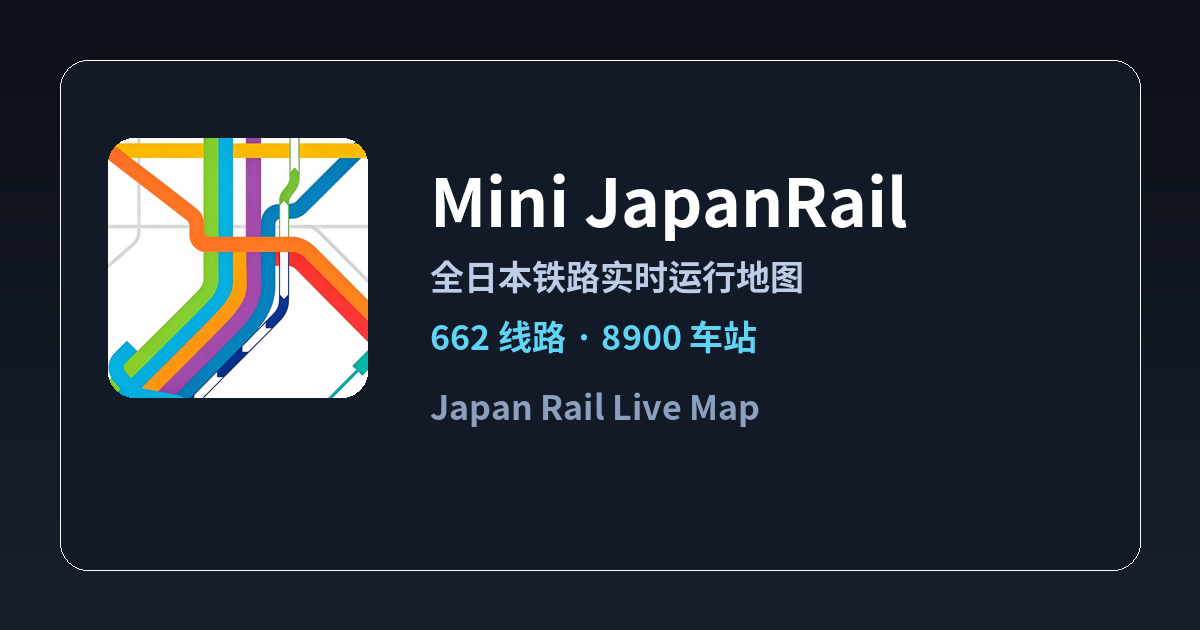
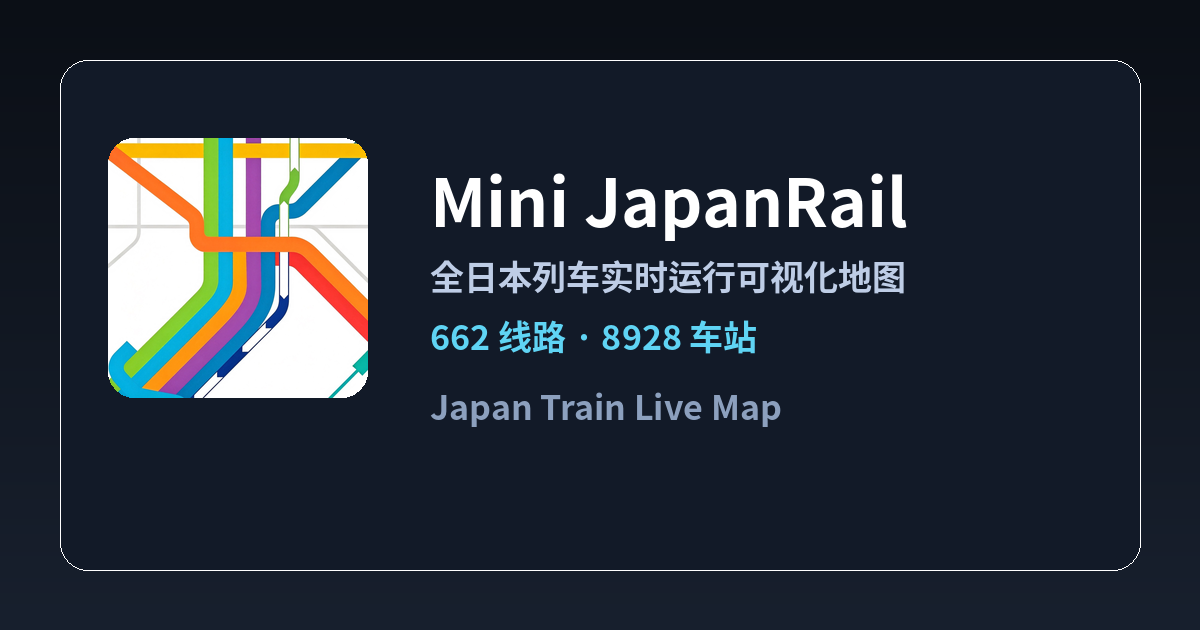
SEO：首页标题与关键词优化，覆盖「列車走行位置・運行情報・列车运行可视化」
原标题「Mini JapanRail — 全日本铁路实时运行地图 | Japan Rail Live Map」只覆盖中文+英文，
缺少日本市场最高价值的官方用词。据竞品与官方用词调研（JR「列車走行位置」、
tetsudou-map.com「走行シミュレーション」、RailAround、trainvisual.top「列车运行可视化系统」、
trainstracking.com「Japan Live Train Map」），重构为：

- title/og/twitter：Mini JapanRail｜全日本列车实时运行可视化地图・列車走行位置・運行情報 | Japan Train Live Map
- description/keywords：补入 新干线・特急・在来线、列车运行情报、リアルタイム列車位置、
  走行シミュレーション、Japan Train Live Map & Real-Time Tracker 等
- JSON-LD：WebSite.alternateName 扩充 10 个中/日/英变体；新增 WebApplication 结构化数据
- noscript 兜底内容（爬虫可抓取）同步关键词化
- SEO 生成器：车站页/线路页/404 描述与「线路一览/车站一览」标题同步；
  og-image 副标题更新并重生成（1200x630）
- UI 品牌副标题（页脚 tagline / 关于面板 / 隐私页）中/日/英三语对齐

验证：node --check 通过；2 个 JSON-LD 块合法；实跑生成器 662 线路页 + 8928 车站页 +
2 一览页全部产出且标题/描述正确；浏览器加载无报错（除沙箱固有 WebGL 限制）。

diff --git a/mini-japanrail-3d/index.html b/mini-japanrail-3d/index.html
@@ -3,28 +3,32 @@
 <head>
 <meta charset="utf-8">
 <meta name="viewport" content="width=device-width, initial-scale=1, maximum-scale=1, user-scalable=no">
-<title>Mini JapanRail — 全日本铁路实时运行地图 | Japan Rail Live Map</title>
-<meta name="description" content="本地时刻表驱动的全日本铁路 3D 实时运行地图：覆盖 600+ 条线路与 8,900+ 个车站，Globe 投影、时钟回放、路线搜索，运行时零数据请求。日本鉄道ライブマップ / Japan Rail Live Map。">
+<title>Mini JapanRail｜全日本列车实时运行可视化地图・列車走行位置・運行情報 | Japan Train Live Map</title>
+<meta name="description" content="全日本列车实时运行可视化地图：本地时刻表驱动，实时显示新干线・特急・在来线的列车走行位置与运行情报，覆盖 600+ 条线路、8,900+ 个车站，支持 3D 地球投影、时钟回放与路线搜索，运行时零数据请求。日本全国の列車走行位置・運行情報がわかるリアルタイム鉄道マップ（走行シミュレーション） / Japan Train Live Map &amp; Real-Time Tracker.">
+<meta name="keywords" content="日本铁路,全日本铁路,列车实时位置,列车运行可视化,列车运行可视化系统,列车运行图,列车运行情报,列車走行位置,列車運行情報,鉄道マップ,路線図,新幹線 位置,リアルタイム列車位置,走行シミュレーション,Japan train live map,train tracker,shinkansen live map">
 <!-- ============ SEO（纯静态：真实 HTML + JSON-LD + OG，不影响页面任何功能） ============
      线上域名：https://jr.suki.ing（如需变更，请同步替换此处与 seo/seo_config.json 的 site_base）。 -->
 <link rel="canonical" href="https://jr.suki.ing/index.html">
 <meta property="og:type" content="website">
 <meta property="og:site_name" content="Mini JapanRail">
-<meta property="og:title" content="Mini JapanRail — 全日本铁路实时运行地图 | Japan Rail Live Map">
-<meta property="og:description" content="全日本铁路 3D 实时运行地图：600+ 条线路、8,900+ 个车站，Globe 投影、时钟回放、路线搜索。日本鉄道ライブマップ / Japan Rail Live Map。">
+<meta property="og:title" content="Mini JapanRail｜全日本列车实时运行可视化地图・列車走行位置・運行情報 | Japan Train Live Map">
+<meta property="og:description" content="全日本列车实时运行可视化地图：实时显示新干线・特急・在来线的列车走行位置与运行情报，覆盖 600+ 线路、8,900+ 车站，支持 3D 地球投影、时钟回放、路线搜索。日本全国の列車走行位置・運行情報 / Japan Train Live Map。">
 <meta property="og:url" content="https://jr.suki.ing/">
 <meta property="og:image" content="https://jr.suki.ing/og-image.png">
 <meta property="og:locale" content="zh_CN">
 <meta property="og:locale:alternate" content="ja_JP">
 <meta property="og:locale:alternate" content="en_US">
 <meta name="twitter:card" content="summary_large_image">
-<meta name="twitter:title" content="Mini JapanRail — 全日本铁路实时运行地图 | Japan Rail Live Map">
-<meta name="twitter:description" content="全日本铁路 3D 实时运行地图：600+ 条线路、8,900+ 个车站。">
+<meta name="twitter:title" content="Mini JapanRail｜全日本列车实时运行可视化地图・列車走行位置・運行情報 | Japan Train Live Map">
+<meta name="twitter:description" content="全日本列车实时运行可视化地图：新干线・特急・在来线的列车走行位置与运行情报，600+ 线路、8,900+ 车站，3D 地球投影与时钟回放。">
 <meta name="twitter:image" content="https://jr.suki.ing/og-image.png">
 <meta name="theme-color" content="#0b0f16">
 <link rel="preconnect" href="https://cdn.jsdelivr.net" crossorigin>
 <script type="application/ld+json">
-{"@context":"https://schema.org","@type":"WebSite","name":"Mini JapanRail","alternateName":["全日本铁路实时运行地图","日本鉄道ライブマップ","Japan Rail Live Map"],"url":"https://jr.suki.ing/","description":"全日本铁路 3D 实时运行地图：600+ 条线路、8,900+ 个车站，实时列车、时刻表回放、路线搜索。","inLanguage":["zh-Hans","ja","en"]}
+{"@context":"https://schema.org","@type":"WebSite","name":"Mini JapanRail","alternateName":["全日本列车实时运行可视化地图","全日本铁路实时运行地图","列车运行可视化系统","列车运行情报","列車走行位置","列車運行情報","日本全国鉄道リアルタイムマップ","Japan Train Live Map","Japan Rail Live Map","Real-Time Japan Train Tracker"],"url":"https://jr.suki.ing/","description":"全日本列车实时运行可视化地图：本地时刻表驱动，实时显示新干线・特急・在来线的列车走行位置与运行情报，覆盖 600+ 条线路、8,900+ 个车站。","keywords":"列车实时位置,列车运行可视化,列車走行位置,運行情報,新幹線,鉄道マップ,Japan train live map","inLanguage":["zh-Hans","ja","en"]}
+</script>
+<script type="application/ld+json">
+{"@context":"https://schema.org","@type":"WebApplication","name":"Mini JapanRail","url":"https://jr.suki.ing/","applicationCategory":"TravelApplication","operatingSystem":"Web","browserRequirements":"Requires WebGL","isAccessibleForFree":true,"offers":{"@type":"Offer","price":"0","priceCurrency":"JPY"},"description":"全日本列车实时运行可视化地图：实时列车走行位置与运行情报、时钟回放、路线搜索、线路类型过滤。","featureList":["全日本列车实时位置","列车运行可视化","新干线・特急・在来线分层显示","时钟回放","路线搜索","线路类型过滤","运行日切换"],"inLanguage":["zh-Hans","ja","en"]}
 </script>
 <link rel="icon" type="image/png" sizes="64x64" href="favicon.png" id="fav64">
 <link rel="icon" type="image/png" sizes="192x192" href="icon-192.png">
@@ -867,8 +871,8 @@ html.perf-low *, html.perf-low *::before, html.perf-low *::after {
 <body>
 <noscript>
   <div style="position:fixed;inset:auto 0 0 0;z-index:99999;background:#0b0f16;color:#e8edf4;padding:14px;font-family:-apple-system,'PingFang SC','Hiragino Sans GB','Noto Sans CJK SC','Yu Gothic UI','Noto Sans JP',sans-serif;font-size:14px;line-height:1.8;max-height:70vh;overflow:auto">
-    <h1 style="font-size:18px;margin-bottom:6px">Mini JapanRail — 全日本铁路实时运行地图</h1>
-    <p>本站为纯静态网站：覆盖全日本 600+ 条铁路线路与 8,900+ 个车站的实时运行地图（日本鉄道ライブマップ / Japan Rail Live Map）。请在浏览器中启用 JavaScript 以使用 3D 地图、实时列车与路线搜索；无需脚本即可直接浏览以下静态页面：</p>
+    <h1 style="font-size:18px;margin-bottom:6px">Mini JapanRail｜全日本列车实时运行可视化地图（列車走行位置・運行情報）</h1>
+    <p>本站为纯静态网站：全日本列车实时运行可视化地图，实时显示新干线・特急・在来线等 600+ 条铁路线路、8,900+ 个车站的列车走行位置与运行情报（列車走行位置・運行情報 / Japan Train Live Map）。请在浏览器中启用 JavaScript 以使用 3D 地图、实时列车与路线搜索；无需脚本即可直接浏览以下静态页面：</p>
     <p style="margin:6px 0"><a href="lines/">全部线路一览（600+ 条）</a> ｜ <a href="stations/">全部车站一览（8,900+ 个）</a></p>
     <p style="color:#8fa0c0;margin-top:8px;font-size:13px">热门线路：<a href="lines/%E5%B1%B1%E6%89%8B%E7%B7%9A/">山手線（Yamanote Line）</a> ·
       <a href="lines/%E6%9D%B1%E6%B5%B7%E9%81%93%E6%9C%AC%E7%B7%9A/">東海道本線</a> ·
@@ -1085,7 +1089,7 @@ window.addEventListener('unhandledrejection', e => { __pushErr('REJ ' + (e.reaso
 
 <script type="module">
 /* ================================================================== *
- *  Mini JapanRail — 全日本铁路实时运行地图(单文件版)
+ *  Mini JapanRail｜全日本列车实时运行可视化地图(单文件版)
  *  数据:本地时刻表(trains_*.json + tmaps.json)+ 轨道几何(segments3d/stations3d)
  *  渲染:MapLibre GL JS v6(Globe 投影)+ projectTile 注入自定义 WebGL 列车层
  *  时钟:JST 每帧推算全部在途列车位置,运行时零数据请求
@@ -1230,11 +1234,11 @@ const HOLIDAYS = (() => {
 /* ---------------- i18n ---------------- */
 const I18N = {
   zh: {
-    title:'Mini JapanRail', sub:'全日本铁路实时运行地图', loading:'准备中…', live:'实时', follow:'跟随中', followStop:'取消跟随',
+    title:'Mini JapanRail', sub:'全日本列车实时运行可视化地图', loading:'准备中…', live:'实时', follow:'跟随中', followStop:'取消跟随',
     searchT:'搜索', searchPh:'车站 / 线路(日·中·EN)…', routeT:'路线搜索', routeFrom:'起点站', routeTo:'终点站',
     tabRoute:'路线', aSearchPh:'搜索车站 / 线路…', badgeLive:'在途', badgeToday:'今日', noMatch:'无匹配结果',
     filterT:'线路类型', legendT:'图例', dayT:'运行日', dayAuto:'自动', setT:'设置', dataT:'数据', helpT:'帮助', aboutT:'关于',
-    about1:'Mini JapanRail — 本地时刻表驱动的全日本铁路 3D 实时运行地图', about2:'数据源:日本全国铁路计划时刻表,每周自动刷新;页面运行时零外部请求', about3:'本站为个人爱好项目,数据仅供学习参考', about4:'隐私政策',
+    about1:'Mini JapanRail — 本地时刻表驱动的全日本列车实时运行可视化地图（列車走行位置・運行情報）', about2:'数据源:日本全国铁路计划时刻表,每周自动刷新;页面运行时零外部请求', about3:'本站为个人爱好项目,数据仅供学习参考', about4:'隐私政策',
     sw1:'车站标签', sw2:'轨道光晕', sw3:'车站点', sw4:'底图瓦片', sw5:'列车光晕', sw6:'复制异常车辆', sw7:'列车悬浮提示', sw8:'车站轮廓', sw9:'出入口', sw10:'详细股道',
     sw11:'性能改善', sw11Note:'低倍率下只渲染新干线・特急，放大后逐级加入快速・普通列车（含地铁・路面电车）；等级切换与进出视野均为淡入淡出，避免列车突然出现或消失',
     modeT:'列车显示', mode3d:'3D', modeIcon:'图标', modeCute:'可爱',
@@ -1288,7 +1292,7 @@ const I18N = {
     gdOperator:'事業者サイト', gdDataSrc:'データ：ecomo-rakuraku（交通エコロジー・モビリティ財団）',
   },
   en: {
-    title:'Mini JapanRail', sub:'Japan Rail Live Map', loading:'Preparing…', live:'Live', follow:'Following', followStop:'Stop follow',
+    title:'Mini JapanRail', sub:'Japan Train Live Map', loading:'Preparing…', live:'Live', follow:'Following', followStop:'Stop follow',
     searchT:'Search', searchPh:'Station / Line (JA·ZH·EN)…', routeT:'Route search', routeFrom:'From', routeTo:'To',
     tabRoute:'Route', aSearchPh:'Search station / line…', badgeLive:'Live', badgeToday:'Today', noMatch:'No matches',
     filterT:'Line types', legendT:'Legend', dayT:'Service day', dayAuto:'Auto', setT:'Settings', dataT:'Data', helpT:'Help', aboutT:'About',

diff --git a/mini-japanrail-3d/privacy.html b/mini-japanrail-3d/privacy.html
@@ -4,7 +4,7 @@
 <meta charset="utf-8">
 <meta name="viewport" content="width=device-width, initial-scale=1, maximum-scale=1, user-scalable=no">
 <title>隐私政策 — Mini JapanRail</title>
-<meta name="description" content="Mini JapanRail 隐私政策:本地时刻表驱动的全日本铁路 3D 实时运行地图,数据与隐私说明。">
+<meta name="description" content="Mini JapanRail 隐私政策:本地时刻表驱动的全日本列车实时运行可视化地图（列車走行位置・運行情報）,数据与隐私说明。">
 <link rel="icon" type="image/png" sizes="64x64" href="favicon.png">
 <link rel="icon" type="image/png" sizes="192x192" href="icon-192.png">
 <link rel="apple-touch-icon" sizes="180x180" href="apple-touch-icon.png">
@@ -129,7 +129,7 @@ a.link:hover { color:var(--acc); border-bottom-style:solid; }
   <div class="glass-card">
     <div class="g-card-inner">
       <h1 class="h1" id="docH">隐私政策</h1>
-      <p class="h-sub" id="docSub">Mini JapanRail — 全日本铁路实时运行地图</p>
+      <p class="h-sub" id="docSub">Mini JapanRail — 全日本列车实时运行可视化地图</p>
 
       <div class="sec-t" id="s1">我们收集什么</div>
       <p class="para" id="p1">本站不收集、不存储、不上传任何个人信息。您在使用过程中产生的偏好设置（语言、主题、显示开关、跟随状态等）仅保存在您自己的浏览器本地存储（localStorage）中，用于下次访问时恢复界面状态，不会发送到任何服务器。</p>
@@ -169,7 +169,7 @@ applyTheme();
 const lang = (localStorage.getItem('mjr3d_lang') || 'zh');
 document.documentElement.lang = lang === 'zh' ? 'zh-Hans' : lang;
 const I18N = {
-  zh: { backLb:'返回地图', docT:'隐私政策', docH:'隐私政策', docSub:'Mini JapanRail — 全日本铁路实时运行地图',
+  zh: { backLb:'返回地图', docT:'隐私政策', docH:'隐私政策', docSub:'Mini JapanRail — 全日本列车实时运行可视化地图',
     s1:'我们收集什么', p1:'本站不收集、不存储、不上传任何个人信息。您在使用过程中产生的偏好设置（语言、主题、显示开关、跟随状态等）仅保存在您自己的浏览器本地存储（localStorage）中，用于下次访问时恢复界面状态，不会发送到任何服务器。',
     s2:'数据来源', p2:'列车运行数据基于日本全国铁路的计划时刻表构建：由每周定时任务从公开时刻表源抓取，打包为紧凑的静态数据文件随站点发布。页面运行时使用这些本地数据驱动渲染，不依赖实时外部请求。', p2b:'计划时刻表',
     s3:'第三方服务', l1:'地图渲染使用开源库 MapLibre GL JS（通过公共 CDN 加载，您的浏览器会向该 CDN 发起请求）。',
@@ -187,7 +187,7 @@ const I18N = {
     s4:'キャッシュについて', p4:'再訪を高速化するため、一部の静的データはブラウザキャッシュ（IndexedDB / HTTPキャッシュ含む）に保存される場合があります。これらはお使いの端末にのみ存在し、ブラウザ設定からいつでも削除できます。',
     s5:'お問い合わせ', p5:'本ポリシーについてご質問がある場合は、GitHubリポジトリのIssueにてご連絡ください。',
     footT:'© 2026 ミニ日本鉄道', footS:'· ローカル時刻表駆動 · 実行時は外部データリクエストなし' },
-  en: { backLb:'Back to map', docT:'Privacy Policy', docH:'Privacy Policy', docSub:'Mini JapanRail — Japan Rail Live Map',
+  en: { backLb:'Back to map', docT:'Privacy Policy', docH:'Privacy Policy', docSub:'Mini JapanRail — Japan Train Live Map',
     s1:'What we collect', p1:'This site does not collect, store, or upload any personal information. Preference settings (language, theme, display toggles, follow state, etc.) are saved only in your browser\'s localStorage to restore the interface on your next visit; nothing is sent to any server.',
     s2:'Data source', p2:'Train operations are driven by scheduled timetables for all Japan railways: a weekly task fetches public timetable sources and packages them into compact static data files shipped with the site. Rendering at runtime uses only this local data and makes no live external requests.', p2b:'Scheduled timetables',
     s3:'Third-party services', l1:'Map rendering uses the open-source MapLibre GL JS library (loaded from a public CDN, so your browser requests it from that CDN).',

diff --git a/mini-japanrail-3d/seo/build_seo_static.py b/mini-japanrail-3d/seo/build_seo_static.py
@@ -1038,7 +1038,7 @@ def station_page(rec, lines, neighbors, cfg, tozh):
     if rec['pref']:
         desc_tail = '位于%s。' % (pref_zh or rec['pref'])
     line_desc = '、'.join(line_names[:3]) + (' 等' if len(line_names) > 3 else '') if line_names else '多条线路'
-    desc = '%s（%s / %s）%s途经%s。在 Mini JapanRail 全日本铁路实时运行地图上查看车站位置、途经线路与实时列车。' % (
+    desc = '%s（%s / %s）%s途经%s。在 Mini JapanRail 全日本列车实时运行可视化地图上查看车站位置、途经线路与列车走行位置・運行情報。' % (
         zh, name, en or zh, desc_tail, line_desc)
     if len(desc) > 190:
         desc = desc[:187] + '…'
@@ -1262,7 +1262,7 @@ def line_page(rec, stations, cfg, tozh, ordered=None):
         desc += '，全长约 %d 公里' % rec['approx_km']
     if rec.get('prefs'):
         desc += '，途经 %d 个都道府县' % len(rec['prefs'])
-    desc += '。可在 Mini JapanRail 全日本铁路实时运行地图上查看线路走向与实时列车。'
+    desc += '。可在 Mini JapanRail 全日本列车实时运行可视化地图上查看线路走向、列车走行位置与運行情報。'
     if len(desc) > 190:
         desc = desc[:187] + '…'
     items_html = ''
@@ -1484,8 +1484,8 @@ def line_page(rec, stations, cfg, tozh, ordered=None):
 def index_lines_page(lines, stations, cfg, tozh, line_counts=None):
     url = abs_url(cfg, 'lines/')
     og_img_url = abs_url(cfg, cfg['og_image'])
-    title = '全部铁路线路一览 | %s' % cfg['site_name']
-    desc = 'Mini JapanRail 收录的全日本铁路线路一览（%d 条）：JR、私铁、地下铁、单轨、路面电车等，每条线路均有独立页面与途经车站。' % len(lines)
+    title = '全日本铁路线路一览（新干线・JR・私铁・地下铁・路面电车）| %s' % cfg['site_name']
+    desc = 'Mini JapanRail 收录的全日本铁路线路一览（%d 条）：新干线、JR、私铁、地下铁、单轨、路面电车等，每条线路均有独立页面、途经车站与列车走行位置（列車走行位置・運行情報）。' % len(lines)
     kinds_order = ['鉄道', '路面電車', 'モノレール', '案内軌条式', '鋼索鉄道', '無軌条電車', '浮上式']
     groups = defaultdict(list)
     for lname, rec in sorted(lines.items(), key=lambda kv: kv[0]):
@@ -1525,8 +1525,8 @@ def index_lines_page(lines, stations, cfg, tozh, line_counts=None):
 def index_stations_page(stations, cfg, tozh, lines=None):
     url = abs_url(cfg, 'stations/')
     og_img_url = abs_url(cfg, cfg['og_image'])
-    title = '全部车站一览 | %s' % cfg['site_name']
-    desc = 'Mini JapanRail 收录的全日本车站一览（%d 站，按都道府县分组），每个车站均有独立页面，包含途经线路、位置与相邻车站。' % len(stations)
+    title = '全日本车站一览（新干线・JR・私铁・地下铁）| %s' % cfg['site_name']
+    desc = 'Mini JapanRail 收录的全日本车站一览（%d 站，按都道府县分组），每个车站均有独立页面，包含途经线路、位置、相邻车站与列车走行位置。' % len(stations)
     groups = defaultdict(list)
     for key, rec in stations.items():
         groups[rec['pref'] or 'その他'].append(rec)
@@ -1611,7 +1611,7 @@ def write_robots(cfg):
 def write_404(cfg):
     og_img_url = abs_url(cfg, cfg['og_image'])
     title = '页面不存在（404）| %s' % cfg['site_name']
-    desc = '您访问的页面不存在。返回 Mini JapanRail 全日本铁路实时运行地图，或浏览全部线路 / 全部车站。'
+    desc = '您访问的页面不存在。返回 Mini JapanRail 全日本列车实时运行可视化地图，或浏览全部线路 / 全部车站。'
     body = (
         '<div class="wrap" style="text-align:center;padding-top:80px">\n'
         '<h1>404 — 页面不存在</h1>\n'
@@ -1682,9 +1682,9 @@ def gen_og_image(cfg, station_count, line_count):
     if f_title:
         d.text((tx, 150), 'Mini JapanRail', font=f_title, fill=(255, 255, 255))
     if f_sub:
-        d.text((tx, 250), '全日本铁路实时运行地图', font=f_sub, fill=(190, 205, 230))
+        d.text((tx, 250), '全日本列车实时运行可视化地图', font=f_sub, fill=(190, 205, 230))
         d.text((tx, 310), '%d 线路 · %d 车站' % (line_count, station_count), font=f_sub, fill=(95, 212, 244))
-        d.text((tx, 380), 'Japan Rail Live Map', font=f_sub, fill=(140, 160, 190))
+        d.text((tx, 380), 'Japan Train Live Map', font=f_sub, fill=(140, 160, 190))
     img.save(out, 'PNG', optimize=True)
     print('[og-image] 已生成 %s（%dx%d）' % (out, W, H))
     return True

diff --git a/mini-japanrail-3d/seo/README.md b/mini-japanrail-3d/seo/README.md
@@ -73,13 +73,29 @@ CI（`.github/workflows/deploy.yml`）已在每次部署前自动运行生成器
 
 | 页面 | 格式 |
 | --- | --- |
-| 首页 | `Mini JapanRail — 全日本铁路实时运行地图 \| Japan Rail Live Map` |
+| 首页 | `Mini JapanRail｜全日本列车实时运行可视化地图・列車走行位置・運行情報 \| Japan Train Live Map` |
 | 线路页 | `山手線（山手线 / Yamanote Line）— 线路车站一览 \| Mini JapanRail` |
 | 车站页 | `東京（东京站 / Tōkyō）— 途经上越新幹線、上越線 等 \| Mini JapanRail` |
+| 线路一览 | `全日本铁路线路一览（新干线・JR・私铁・地下铁・路面电车）\| Mini JapanRail` |
+| 车站一览 | `全日本车站一览（新干线・JR・私铁・地下铁）\| Mini JapanRail` |
 | 同名站 | 自动带消歧后缀，如 `高田(奈良県)（高田站 / Kōda）…` |
 
 要点：日文名优先（利于 Yahoo! Japan / Naver），紧跟中文与英文名（利于百度 / Google），
 再放线路上下文与品牌名；控制在 70 字左右。
+
+**首页关键词策略**（对齐主要竞品与官方用词）：
+
+| 语言 | 关键词 | 说明 |
+| --- | --- | --- |
+| 日 | 列車走行位置 | JR 官方用词，本站最大的搜索流量入口 |
+| 日 | 運行情報 / リアルタイム列車位置 / 走行シミュレーション | 与 `tetsudou-map.com`、`RailAround` 同赛道 |
+| 中 | 全日本列车实时运行可视化地图 / 列车运行可视化系统 / 列车运行情报 | 对标 `trainvisual.top`、`高铁通` 等 |
+| 英 | Japan Train Live Map / Real-Time Train Tracker | 对标 `trainstracking.com`、`liverailmap.com` |
+
+标题把中 / 日 / 英三语的最高价值词按「品牌 ｜ 中文主词 ・ 日文主词 ｜ 英文主词」排布，
+Google 显示宽度约 600px，超出部分会在 SERP 截断但**仍参与索引**；因此把
+`列車走行位置` 等最高价值词前置。`運行情報`、`列车运行可视化`、`新幹線` 等
+其余词放在 `description` / `keywords` / JSON-LD `alternateName` 中兜底覆盖。
 
 ## 上线后的补充动作（建议）
 

diff --git a/mini-japanrail-3d/README.md b/mini-japanrail-3d/README.md
@@ -1,4 +1,4 @@
-# Mini JapanRail — 全日本铁路实时运行地图（3D）
+# Mini JapanRail｜全日本列车实时运行可视化地图（3D）
 
 对标 [Mini Tokyo 3D](https://minitokyo3d.com) 的**纯前端**全日本列车 3D 实时运行地图。单文件实现（`index.html` 内联 CSS/JS），MapLibre GL JS v6 经 CDN 引入，运行时零数据请求。
 
